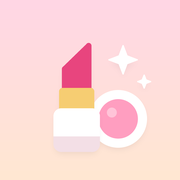
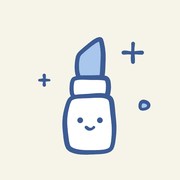
涂鸦风格的新桌面图标；首页加上通往另外两个 app 的入口

diff --git a/index.html b/index.html
@@ -71,6 +71,11 @@ button:focus-visible,input:focus-visible,select:focus-visible,textarea:focus-vis
 .chip.cat{border:1.5px solid transparent;background:none;border-radius:12px;padding:6px 2px;display:flex;flex-direction:column;align-items:center;gap:4px;font-size:11px;line-height:1.25;color:var(--fg);text-align:center;overflow-wrap:anywhere}
 .chip.cat .ci{margin:0;width:40px;height:40px}
 .chip.cat[aria-pressed="true"]{border-color:var(--accent);background:var(--accent-soft);color:var(--fg);font-weight:600}
+.hops{display:grid;grid-template-columns:1fr 1fr;gap:8px}
+.hop{display:flex;align-items:center;gap:8px;padding:8px 10px;background:var(--surface);border:1px solid var(--line);border-radius:12px;text-decoration:none;color:var(--fg);min-width:0}
+.hop img{width:34px;height:34px;border-radius:9px;flex:none}
+.hop b{font-size:14px;display:block;line-height:1.3}
+.hop span span{font-size:11px;color:var(--muted);display:block;line-height:1.3}
 .strip{display:flex;gap:10px;overflow-x:auto;padding-bottom:4px;scrollbar-width:thin}
 .strip .card{flex:0 0 108px}
 .grid{display:grid;grid-template-columns:repeat(auto-fill,minmax(104px,1fr));gap:10px}
@@ -204,9 +209,9 @@ const STATES = {open:"在用", new:"没开封"};
 const SEASONS = ["春","夏","秋","冬"];
 const DAY = 86400000;
 const SPOTS = {
-  toilet:"卫生间", shelf:"收纳架", basin:"洗手台下", washer:"洗衣机旁", genkan:"玄关", kitchen:"厨房", cl:"衣柜 CL",
+  toilet:"卫生间", shelf:"收纳架", basin:"洗手台下", washer:"洗衣机旁", genkan:"玄关", kitchen:"厨房", fridge:"冰箱", cl:"衣柜 CL",
   boxes:"进门收纳箱", kotatsu:"こたつ上", shelf3:"三层架", desktop:"桌上小盒", cabinet:"四层柜", rack:"挂衣架",
-  bedin:"床下（另一张）", bedwin:"床下（靠窗）", longbox:"床边长箱", water:"水", bedside:"床头柜", smalltable:"小桌下", desk:"书桌下", pajama:"睡衣筐", unplaced:"还没定位置"
+  bedin:"床下（另一张）", bedwin:"床下（靠窗）", longbox:"床边长箱", water:"水", bedside:"床头柜", smalltable:"小桌下", desk:"书桌下", unplaced:"还没定位置"
 };
 // item（逐件拍衣服）归东阳303管，这里只管另外两种
 const MODES = {list:"记大概", count:"记数量"};
@@ -228,6 +233,9 @@ const fromYmd = s => {const [y,m,d]=s.split("-").map(Number);return new Date(y,m
 const dateText = ms => new Date(ms).toLocaleDateString("zh-CN");
 function addMonths(ms,n){const d=new Date(ms);d.setHours(0,0,0,0);d.setMonth(d.getMonth()+n);return d.getTime()}
 
+// 三个整理 app 互相跳转：首页最上面放另外两个的入口
+const APPS=[["closet","东阳303","衣服和鞋","https://xinyue119-code.github.io/dongyang303/"],["zw","杂物间","杂物和存货","https://xinyue119-code.github.io/dongyang303-zawu/"],["cos","化妆台","化妆品","https://xinyue119-code.github.io/dongyang303-cosme/"]];
+const hopsHTML = me => `<nav class="hops" aria-label="另外两个整理 app">${APPS.filter(a=>a[0]!==me).map(([,n,sub,u])=>`<a class="hop" href="${u}"><img src="${u}icon-192.png" alt=""><span><b>${n}</b><span>${sub}</span></span></a>`).join("")}</nav>`;
 const catIcon = (c,size="") => {const d=(window.CAT_ICONS||{})[c];return d?`<span class="ci ${size}" style="--h:${d[0]}" aria-hidden="true"><svg viewBox="0 0 24 24">${d[1]}</svg></span>`:""};
 const locById = id => S.locs.find(l=>l.id===id);
 const locName = id => { if(!id) return "待整理"; const l=locById(id); return l?l.name:"待整理"; };
@@ -324,6 +332,7 @@ function homeHTML(){
   const open=items.filter(isOpen), fresh=items.filter(i=>!isOpen(i));
   const pending=LOC?items.filter(i=>!i.loc||!locById(i.loc)).length:0;
   let h=`<div class="stack">${header(`在用 ${open.length} ${K.unit} · 囤货 ${fresh.reduce((s,i)=>s+qtyOf(i),0)} ${K.unit}${HOUSE?` · 存货 ${S.stock.length} 种`:""}`)}
+   ${hopsHTML(K.id)}
    <input class="search big" id="gq" type="search" placeholder="${esc(K.searchHint)}" value="${esc(S.gq)}" autocomplete="off">`;
   if(S.gq.trim())return h+searchHTML(S.gq.trim())+`</div>`;
   if(!items.length)return h+`<div class="empty">${K.emptyHint}</div></div>`;
@@ -404,7 +413,7 @@ function mapSVG(){
    <line class="wall-thin" x1="4" y1="300" x2="290" y2="300"/><line class="wall-thin" x1="380" y1="300" x2="476" y2="300"/>
    <line class="wall-thin" x1="100" y1="4" x2="100" y2="296"/><line class="wall-thin" x1="272" y1="4" x2="272" y2="296"/>
    <rect class="fixed" x="10" y="150" width="84" height="140"/><text class="room-lbl" x="52" y="224" text-anchor="middle">浴室</text>
-   <rect class="fixed" x="400" y="80" width="70" height="56"/><text class="room-lbl" x="435" y="112" text-anchor="middle">冰箱</text>
+   ${zone("fridge",400,80,70,56,"冰箱")}
    <text class="room-lbl" x="190" y="146" text-anchor="middle">洗面所</text>
    ${zone("toilet",10,10,84,76,"卫生间")}
    ${zone("shelf",10,92,84,52,"收纳架")}
@@ -422,12 +431,11 @@ function mapSVG(){
    ${zone("rack",82,476,118,36,"挂衣架")}
    ${zone("bedin",12,520,190,93,"床下·另一张")}
    ${zone("bedwin",12,619,190,93,"床下·靠窗")}
-   ${zone("longbox",208,520,66,98,"长箱×3")}
+   ${zone("longbox",208,520,66,98,"长箱")}
    ${zone("water",208,624,66,56,"水")}
    ${zone("bedside",12,718,60,52,"床头柜")}
    ${zone("smalltable",336,460,134,56,"小桌下")}
    ${zone("desk",336,526,134,150,"书桌下")}
-   ${zone("pajama",336,690,100,52,"睡衣筐")}
    <rect class="fixed" x="4" y="790" width="472" height="62"/><text class="room-lbl" x="240" y="826" text-anchor="middle">阳台</text>
   </svg>`;
 }
@@ -795,6 +803,7 @@ function start(){
     if(!user){render();return}
     S.ro=(user.email||"").toLowerCase()!==String(window.OWNER_EMAIL||"").toLowerCase();
     S.db=db;render();
+    if(!S.ro&&K.migrate)K.migrate(db).catch(e=>console.warn("migrate",e));
     const err=e=>{console.warn(e);toast(e&&e.code==="permission-denied"?"这个账号没有权限查看":"连接中断，刷新页面试试")};
     unsubs.push(col("items").onSnapshot(s=>{S.items=s.docs.map(d=>({id:d.id,...d.data()}));S.loaded.i=true;render()},err));
     if(HOUSE)unsubs.push(db.collection("stock").orderBy("created").onSnapshot(s=>{S.stock=s.docs.map(d=>({id:d.id,...d.data()}));S.loaded.s=true;render();

diff --git a/sw.js b/sw.js
@@ -1,5 +1,5 @@
 // 化妆台: cache the app shell so it opens fast; data comes from Firestore.
-const CACHE = "cos303-v4";
+const CACHE = "cos303-v5";
 const SHELL = ["./", "index.html", "config.js", "icons.js", "kind.js", "manifest.webmanifest", "icon-192.png", "icon-512.png", "apple-touch-icon.png"];
 self.addEventListener("install", e => { e.waitUntil(caches.open(CACHE).then(c => c.addAll(SHELL)).then(() => self.skipWaiting())); });
 self.addEventListener("activate", e => { e.waitUntil(caches.keys().then(ks => Promise.all(ks.filter(k => k !== CACHE).map(k => caches.delete(k)))).then(() => self.clients.claim())); });
